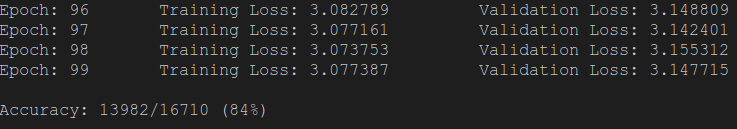
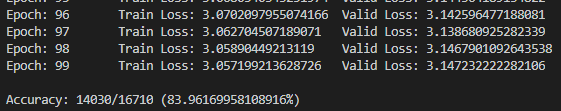
ㅕㅔㅇㅁㅅㄷ

Changed region(s): [[0.2121, 0.0, 1.0, 0.6486], [0.0, 0.7838, 0.5455, 0.973], [0.0, 0.0, 0.1212, 0.6486]]

diff --git a/_posts/2019-11-24-first-post.md b/_posts/2019-11-24-first-post.md
@@ -930,9 +930,13 @@ class Network(nn.Module):
 
 ![Droupout](/aix/img/dropout.png)
 
+dropout을 적용하니, validation loss가 증가하는 현상은 해결이 되었습니다.
+
 ### 최종 결과
 
 ![Last Result](/aix/img/last_result.png)
+
+약 84% 정확도를 보입니다.
 
 ---
 
